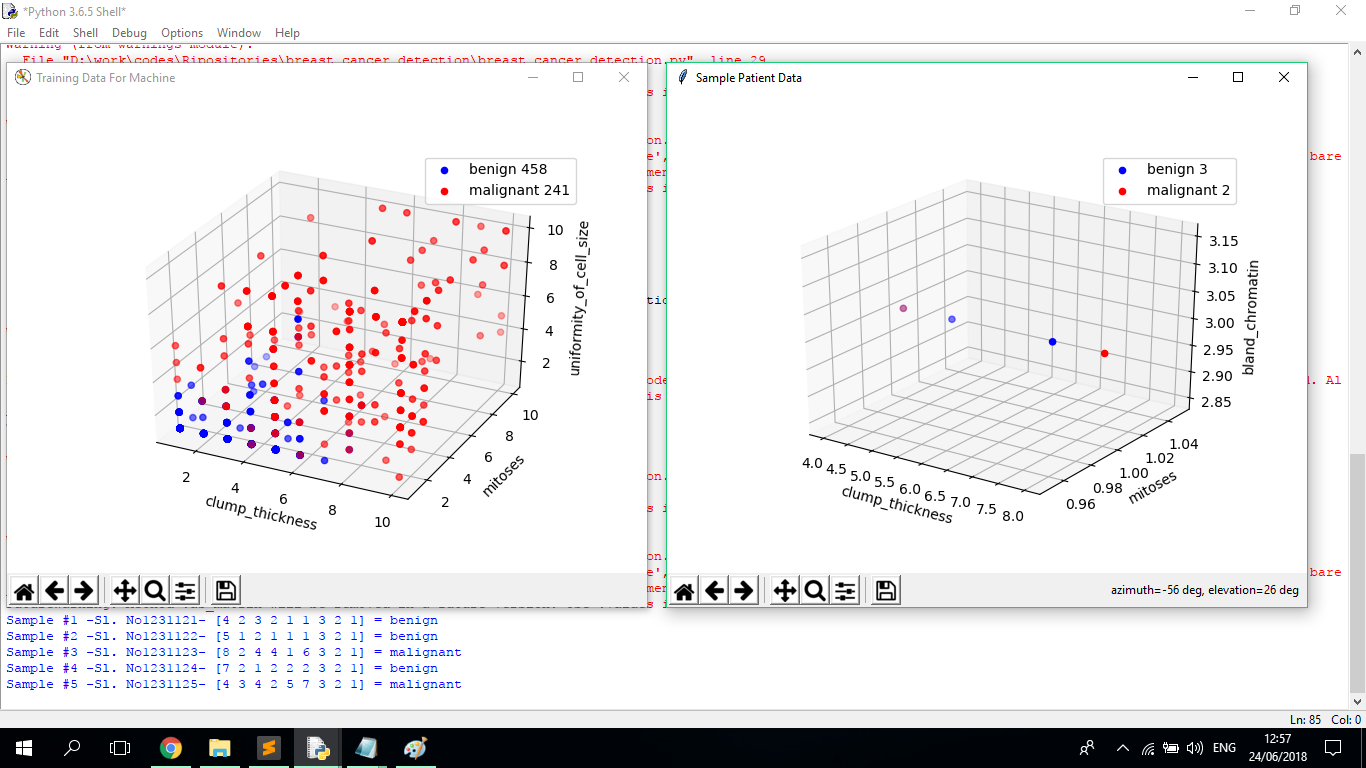
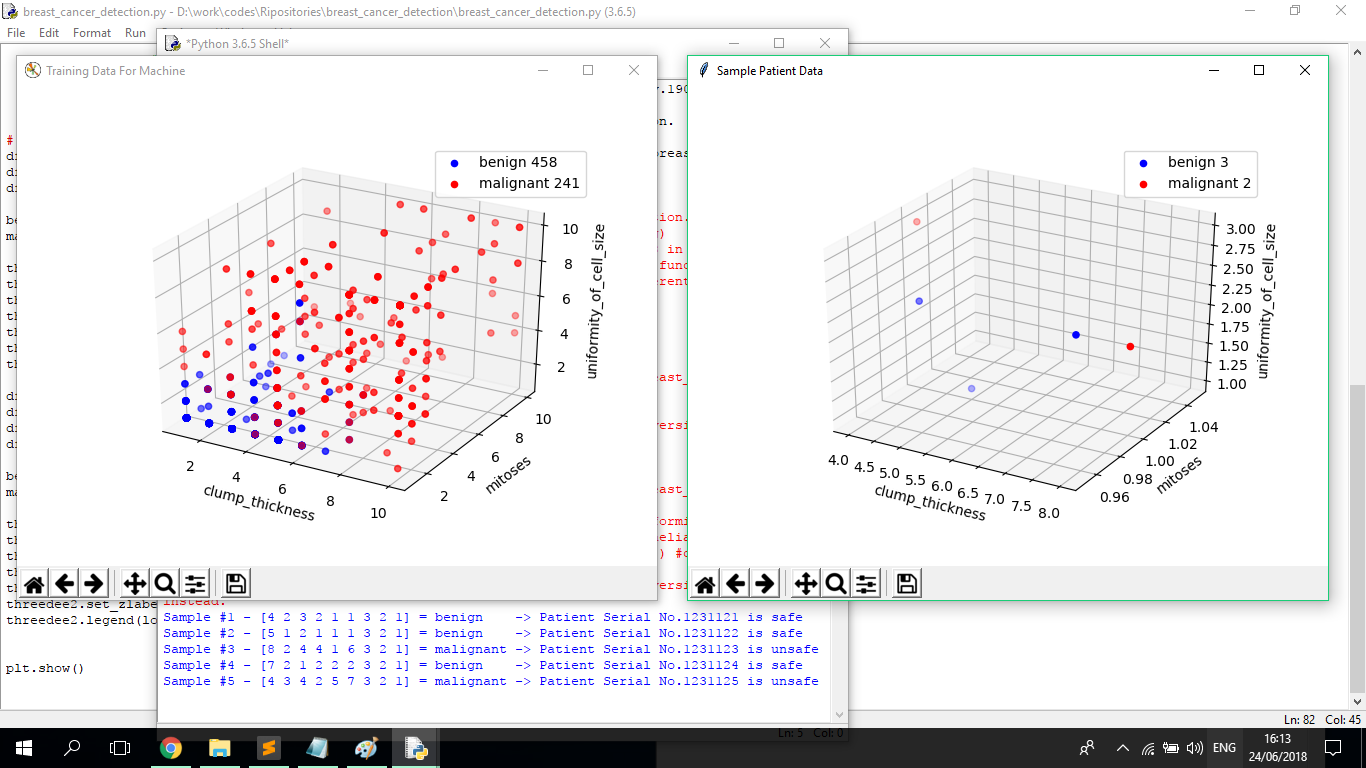
updated result

Changed region(s): [[0.0, 0.0, 1.0, 1.0], [0.0, 0.1562, 0.0307, 0.25], [0.0, 0.2812, 0.0307, 0.3125]]

diff --git a/breast_cancer_detection.py b/breast_cancer_detection.py
@@ -39,11 +39,13 @@ i = 0
 for p,s,idd in zip(prediction,samples,ids):
     i+=1
     if p == 2:
-        con = "benign"
+        con = "benign   "
+        safe = "safe"
     elif p == 4:
         con = "malignant"
+        safe = "unsafe"
 
-    print("Sample #%d -Sl. No%s- %s = %s"%(i,idd,s,con))
+    print("Sample #%d - %s = %s -> Patient Serial No.%s is %s"%(i,s,con,idd,safe))
 
 
 
@@ -73,11 +75,11 @@ benign = df[df['class']==2]
 malignant = df[df['class']==4]
 
 threedee2 = plt.figure("Sample Patient Data").gca(projection='3d')
-threedee2.scatter(benign['clump_thickness'],benign['mitoses'],benign['bland_chromatin'],label = 'benign '+str(len(benign)), color='b')
-threedee2.scatter(malignant['clump_thickness'],malignant['mitoses'],malignant['bland_chromatin'],label = 'malignant '+str(len(malignant)), color='r')
+threedee2.scatter(benign['clump_thickness'],benign['mitoses'],benign['uniformity_of_cell_size'],label = 'benign '+str(len(benign)), color='b')
+threedee2.scatter(malignant['clump_thickness'],malignant['mitoses'],malignant['uniformity_of_cell_size'],label = 'malignant '+str(len(malignant)), color='r')
 threedee2.set_xlabel('clump_thickness')
 threedee2.set_ylabel('mitoses')
-threedee2.set_zlabel('bland_chromatin')
+threedee2.set_zlabel('uniformity_of_cell_size')
 threedee2.legend(loc=1)
 
 
